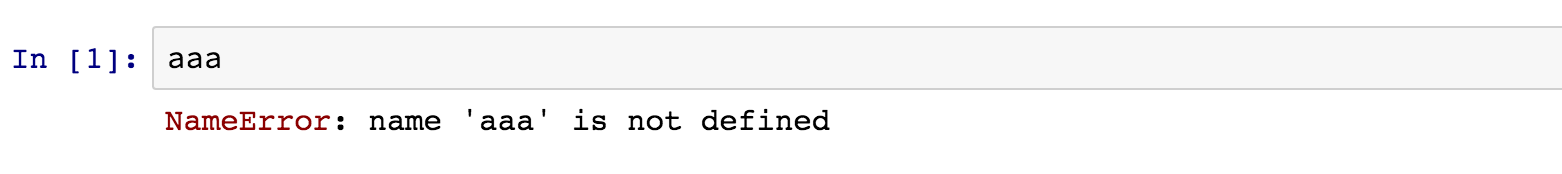
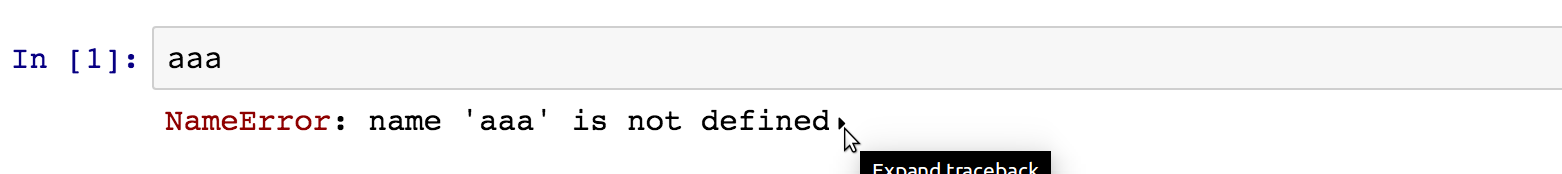
[skip-traceback] make tracebacks collapsed rather than just omitted This allows us to expand the traceback for inspection as desired.

Changed region(s): [[0.5224, 0.6897, 0.6761, 1.0]]

diff --git a/src/jupyter_contrib_nbextensions/nbextensions/skip-traceback/main.js b/src/jupyter_contrib_nbextensions/nbextensions/skip-traceback/main.js
@@ -5,50 +5,145 @@ define([
     'base/js/namespace',
     'jquery',
     'require',
-    'notebook/js/outputarea'
-],   function(IPython, $, require, outputarea) {
+    'notebook/js/outputarea',
+], function (
+    Jupyter,
+    $,
+    require,
+    outputarea
+) {
     "use strict";
 
-	var original_append_error = outputarea.OutputArea.prototype.append_error;
+    var mod_name = 'skip-traceback';
+    var log_prefix = '[' + mod_name + ']';
 
-    /*
-     * Display only error type and message instead of complete traceback
-     */
-    var new_append_error = function (json) {
-        var tb = json.ename;
-        if (tb !== undefined && tb.length > 0) {
-            var toinsert = this.create_output_area();
-            var append_text = outputarea.OutputArea.append_map['text/plain'];
-            if (append_text) {
-			    var s = '[1;31m' + tb + '[0m: ' + json.evalue;
-                append_text.apply(this, [s, {}, toinsert]).addClass('output_prompt');				
-            }
-            this._safe_append(toinsert);
-        }
+    var cfg = {
+        enable: true,
+        use_toolbar_button: false,
+        button_icon: 'fa-warning',
+        animation_duration: 100,
     };
 
-	var toggle_traceback = function() {
-        if ($('#toggle_traceback').hasClass('active')) {
-            $('#toggle_traceback').removeClass('active').blur();
-			outputarea.OutputArea.prototype.append_error = new_append_error;
-        } else {
-            $('#toggle_traceback').addClass('active').blur();
-            outputarea.OutputArea.prototype.append_error = original_append_error;
-        }
-    };
+    // this will be filled as they're registered
+    var actions = {};
 
-    var load_ipython_extension = function() {
-        outputarea.OutputArea.prototype.append_error = new_append_error;
-        IPython.toolbar.add_buttons_group([
-            {
-                id: 'toggle_traceback',
-                label: 'Toggle Hiding Traceback',
-                icon: 'fa-warning',
-                callback: function () {
-                    toggle_traceback();
+    var apply_patches = function () {
+
+        outputarea.OutputArea.prototype.append_error = function (json) {
+            // firts part is just a copy of the original, but keeping a reference to inserted_text
+            var inserted_text;
+            var tb = json.traceback;
+            if (tb !== undefined && tb.length > 0) {
+                var s = '';
+                var len = tb.length;
+                for (var i = 0; i < len; i++) {
+                    s = s + tb[i] + '\n';
+                }
+                s = s + '\n';
+                var toinsert = this.create_output_area();
+                var append_text = outputarea.OutputArea.append_map['text/plain'];
+                if (append_text) {
+                    inserted_text = append_text.apply(this, [s, {}, toinsert]).addClass('output_error');
+                }
+                this._safe_append(toinsert);
+
+                // now we add our header at the top of the inserted_text
+                if (!inserted_text) {
+                    return;
+                }
+                var sum = $('<pre/>')
+                    .addClass('skip-traceback-summary')
+                    .css('cursor', 'pointer')
+                    .text(': ' + json.evalue + ' ')
+                    .prepend($('<span class=ansired/>').text(json.ename))
+                    .append('<i class="fa fa-caret-right" title="Expand traceback"/>')
+                    .append('\n')
+                    .on('click', function (evt) {
+                        var summary = $(this);
+                        var icon = summary.find('.fa');
+                        var show = icon.hasClass('fa-caret-right');
+                        icon
+                            .toggleClass('fa-caret-down', show)
+                            .toggleClass('fa-caret-right', !show)
+                            .attr('title', show ? 'Collapse traceback' : 'Expand traceback');
+                        summary.siblings()[show ? 'slideDown' : 'slideUp'](cfg.animation_duration || 100);
+                    })
+                    .prependTo(inserted_text);
+                if (cfg.enable) {
+                    sum.siblings().css('display', 'none');
+                }
+                else {
+                    sum.css('display', 'none');
                 }
             }
-        ]);
+        };
+    };
+
+    var toggle_traceback = function (set_on) {
+        if (set_on === undefined) {
+            set_on = !cfg.enable;
+        }
+        // update config
+        if (set_on !== cfg.enable) {
+            cfg.enable = set_on;
+            var conf_update = {};
+            conf_update[mod_name] = {enable: set_on};
+            Jupyter.notebook.config.update(conf_update);
+            console.log(log_prefix, 'toggled', set_on ? 'on' : 'off');
+        }
+        // update button looks
+        $('#toggle_traceback_btns > .btn').toggleClass('active', set_on).blur();
+        // update existing OutputAreas
+        $('.cell .output_area .output_error .skip-traceback-summary').each(function (idx, el) {
+            var $summary = $(el);
+            $summary.css('display', set_on ? '' : 'none');
+            if ($summary.find('.fa').hasClass(set_on ? 'fa-caret-down' : 'fa-caret-right')) {
+                $summary.click();
+            }
+        });
+    };
+
+    var register_new_actions = function () {
+        actions.toggle = {
+            help : 'Toggle Hiding Traceback',
+            help_index: 'zz',
+            icon : cfg.button_icon || 'fa-warning',
+            handler : function (env) { toggle_traceback(); },
+        };
+        actions.toggle.name = Jupyter.keyboard_manager.actions.register(
+            actions.toggle, 'toggle', mod_name);
+    };
+
+    var add_toolbar_button = function () {
+        if (cfg.use_toolbar_button) {
+            Jupyter.toolbar.add_buttons_group([actions.toggle.name], 'toggle_traceback_btns');
+        }
+    };
+
+    var load_ipython_extension = function () {
+        apply_patches();
+
+        Jupyter.notebook.config.loaded
+        .then(function () {
+            $.extend(true, cfg, Jupyter.notebook.config.data[mod_name]);
+            register_new_actions();
+            add_toolbar_button();
+            toggle_traceback(cfg.enable);
+            // update any OutputArea created before our patch)
+            $('.cell .output_area .output_error').each(function (idx, el) {
+                var $el = $(el);
+                if ($el.children('.skip-traceback-summary').length < 1) {
+                    var oa = $el.closest('.cell').data('cell').output_area;
+                    var json_outputs = oa.toJSON();
+                    // clear; do not wait, ignore queue
+                    oa.clear_output(false, true);
+                    oa.fromJSON(json_outputs);
+                }
+            });
+        })
+        .catch(function (reason) {
+            console.error(log_prefix, 'Error loading:', reason);
+        });
     };
 
     return {

diff --git a/src/jupyter_contrib_nbextensions/nbextensions/skip-traceback/readme.md b/src/jupyter_contrib_nbextensions/nbextensions/skip-traceback/readme.md
@@ -1,22 +1,77 @@
 Skip traceback
 ==============
-This extension hides Python tracebacks and only displays the error type an name.
+
+This nbextension hides error tracebacks, displaying instead a summary of the
+error name and type. Clicking the summary displays the whole traceback.
+
 
 Example
 -------
-With extension enabled:
 
-![](skip-traceback.png)   
-With extension disabled:
+With normal traceback:
+
 ![](traceback.png)
 
-After loading the extension, only newly executed cells are affected. Previous tracebacks will remain visible until the
- corresponding cell is executed again.
+With nbextension enabled:
 
-If you press the button on the toolbar with the exclamation mark, you can temporarily turn on tracebacks again.
+![](skip-traceback.png)   
+
+
+
+Using the (optional) toolbar button, you can show or hide all tracebacks in the
+notebook at once.
+
+
+Options
+-------
+
+The nbextension provides a few options, the values of which are stored in the
+notebook section of the nbconfig. The easiest way to configure these is using
+the
+[jupyter_nbextensions_configurator](https://github.com/Jupyter-contrib/jupyter_nbextensions_configurator)
+serverextension, but you can also configure them directly with a few lines of
+python.
+
+The available options are:
+
+* `skip-traceback.animation_duration` - duration (in milliseconds) of the
+  show/hide traceback animations. Defaults to `100`.
+
+* `skip-traceback.button_icon` - a
+  [fontawesome](http://fontawesome.io/icons/)
+  class name, used for the action and toolbar button.
+  Defaults to `fa-warning`.
+
+* `skip-traceback.use_toolbar_button` - add a button to the toolbar which can
+  be used to toggle on or off the contracted display of all cells' tracebacks.
+  Defaults to `false`.
+
+* `skip-traceback.enable` - enable collapsing the tracebacks on loading the
+  nbextension. Defaults to `true`
+
+
+For example, to set the animation time to half a second, and enable adding the
+toolbar button, we can use the following python snippet:
+
+```python
+from notebook.services.config import ConfigManager
+cm = ConfigManager()
+cm.update("notebook", {"skip-traceback": {
+    "animation_duration": 500,
+    "use_toolbar_button": True,
+}})
+```
+
 
 Internals
 ---------
 
-This extensions works by overriding the `OutputArea.prototype.append_error` function, replacing it with a new function
- that only displays the error type and message.
+This extensions works by overriding the `OutputArea.prototype.append_error`
+function to add a header above the error text, which can be used to show or
+hide the traceback.
+
+On loading the extension, only outputs added to cells after the `append_error`
+method has been patched are initially affected. In order to apply the collapse
+to pre-existing outputs, the nbextension loops through existing uncollapsed
+tracebacks, storing them to json, clearing them, then restoring them from the
+saved json.
